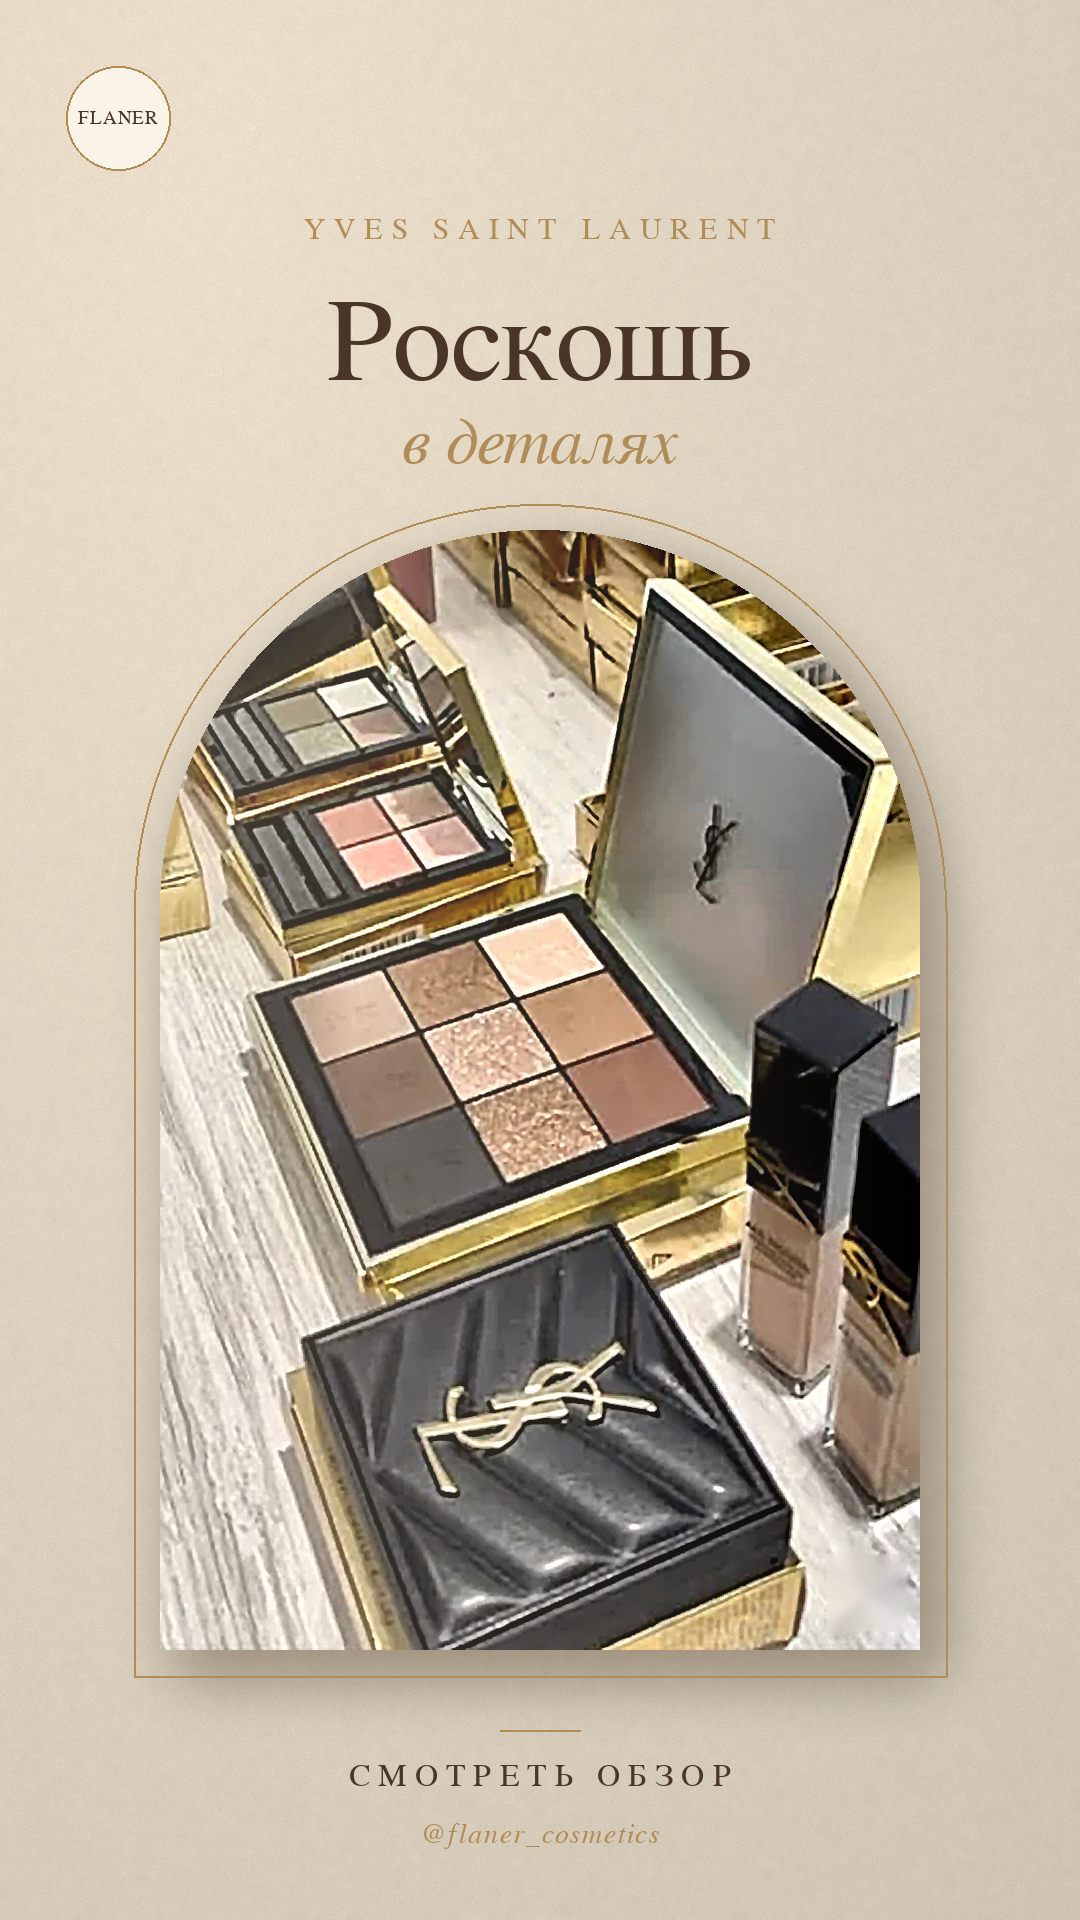
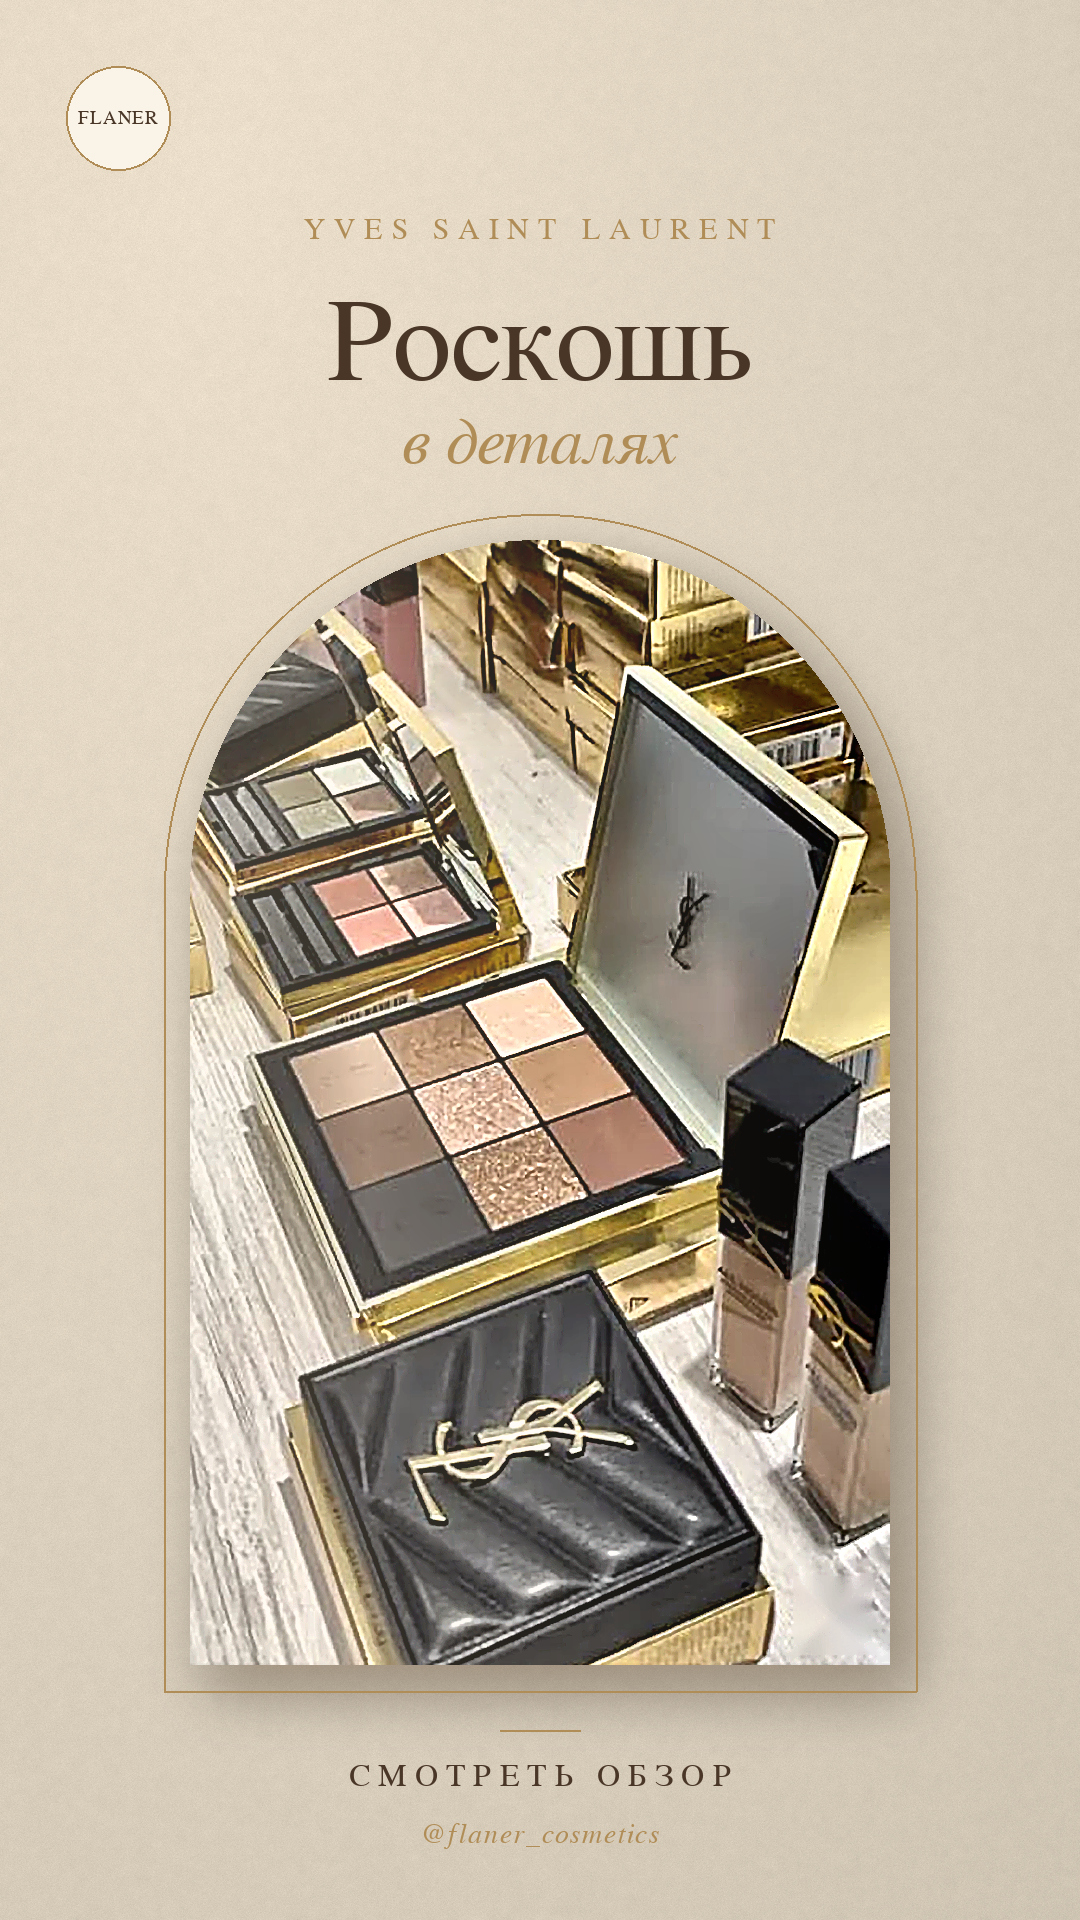
Rebuild YSL cover from higher-res screenshot; add brand style guide
Claude-Session: https://claude.ai/code/session_01St4xobnr2P77ypHjic36e8

diff --git a/design/make_ysl_cover.py b/design/make_ysl_cover.py
@@ -39,7 +39,7 @@ def enhance(src_path, box, size):
     if bgr is None:  # cv2 cannot read webp on some builds
         bgr = cv2.cvtColor(np.asarray(Image.open(src_path).convert("RGB")), cv2.COLOR_RGB2BGR)
     mask = np.zeros(bgr.shape[:2], np.uint8)
-    mask[832:870, 428:468] = 255                     # sound button in the screenshot
+    mask[1090:1140, 528:578] = 255                   # sound button in the screenshot
     bgr = cv2.inpaint(bgr, mask, 5, cv2.INPAINT_TELEA)
     x0, y0, x1, y1 = box
     crop = bgr[y0:y1, x0:x1]
@@ -56,11 +56,11 @@ def enhance(src_path, box, size):
 
 def main(src, out):
     bg = plaster().convert("RGBA")
-    aw, ah = 760, 1120
-    photo = enhance(src, (100, 330, 474, 879), (aw, ah))
+    aw, ah = 700, 1125
+    photo = enhance(src, (150, 440, 589, 1146), (aw, ah))
     photo = ImageEnhance.Color(photo).enhance(0.92)
     photo = ImageEnhance.Contrast(photo).enhance(1.05)
-    ax, ay = (W - aw) // 2, 530
+    ax, ay = (W - aw) // 2, 540
 
     mask = Image.new("L", (aw, ah), 0)                      # arch window
     m = ImageDraw.Draw(mask)

diff --git a/design/brand-style.md b/design/brand-style.md
@@ -1,0 +1,34 @@
+# flaner_cosmetics: visual style "Champagne Travertine"
+
+Quiet-luxury look: warm stone backgrounds, gold hairlines, thin serif type, one hero product photo in an arch frame.
+
+## Palette
+
+| Name | Hex | Use |
+|---|---|---|
+| Cream Plaster | `#ECE0CC` | Main background (add soft plaster grain, light from the upper left) |
+| Dusty Beige | `#D9C7AB` | Secondary surfaces, shadows on the background |
+| Champagne Gold | `#B08D57` | Hairline frames, sub-headline, small labels, handle |
+| Espresso Brown | `#4A3626` | Main headline, CTA text |
+| Ivory | `#FAF4E8` | Logo circle fill, highlights |
+| Dusty Rose (accent) | `#D9B3A5` | Rare accent only |
+
+Never use pure white or pure black backgrounds.
+
+## Typography
+
+- Thin, high-contrast serif with Cyrillic support (Cormorant Garamond, Playfair Display Light, or Bodoni Moda).
+- Headline: large, regular weight, Espresso Brown. Second line: italic, Champagne Gold, about half the size.
+- Small labels (brand name, CTA): capitals with wide letter-spacing (about 0.25em), Champagne Gold or Espresso.
+
+## Layout (9:16, 1080×1920)
+
+1. Logo circle, top-left.
+2. Brand label, then a two-line headline, centred, in the top third.
+3. Product photo in an arch window with a 2px gold outline offset by about 26px and a soft warm shadow.
+4. Short gold rule, CTA in small capitals, then `@flaner_cosmetics`.
+5. Keep the key content inside the central 4:5 crop so the profile grid does not cut it.
+
+## Photo rules
+
+Warm colour grade, gentle contrast, no clutter, no app UI, no pure white. Gold packaging and black leather are the hero materials.
